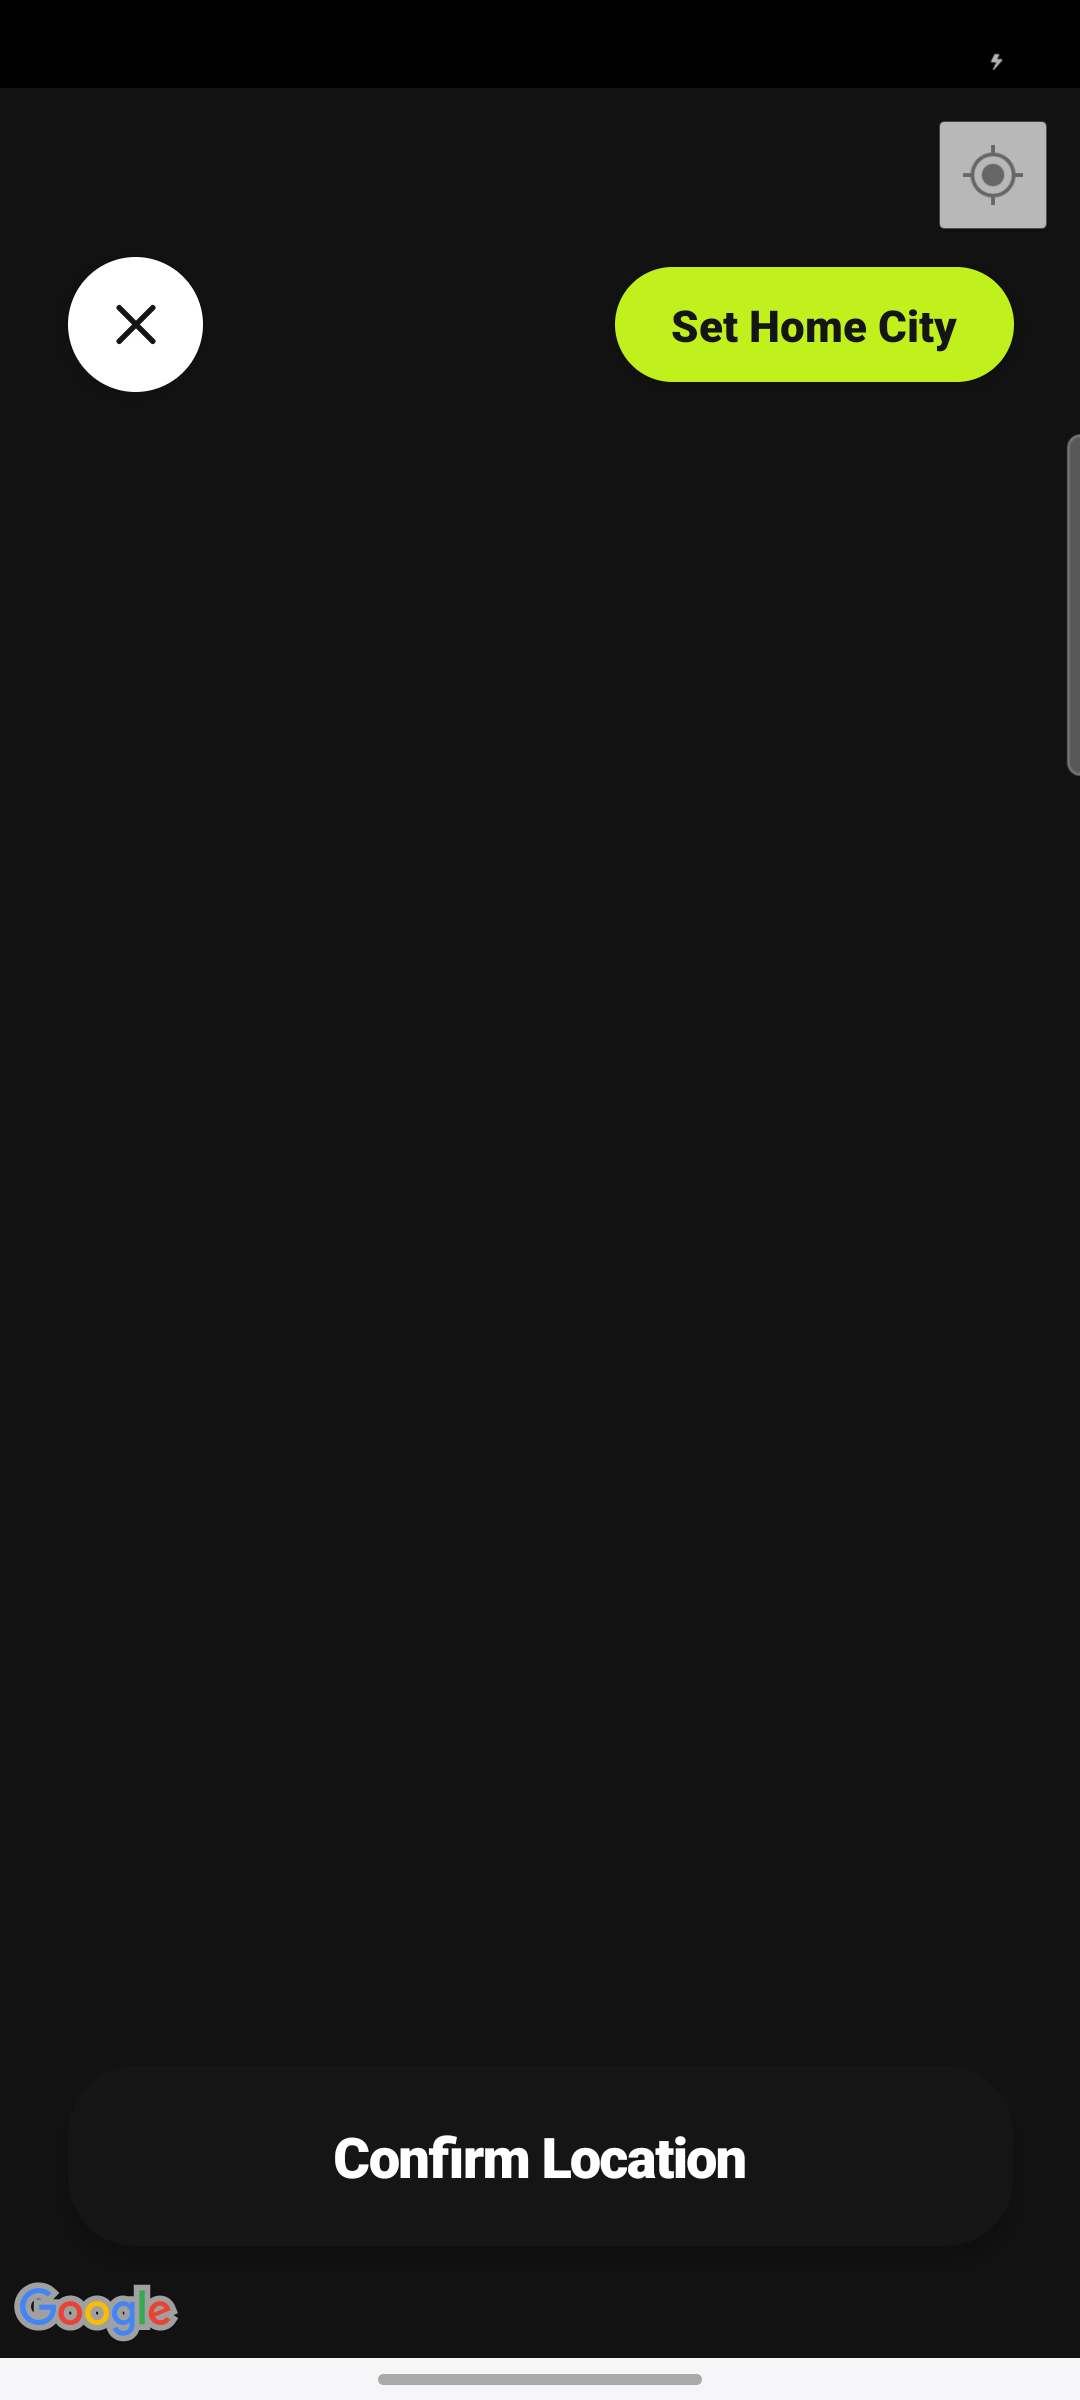
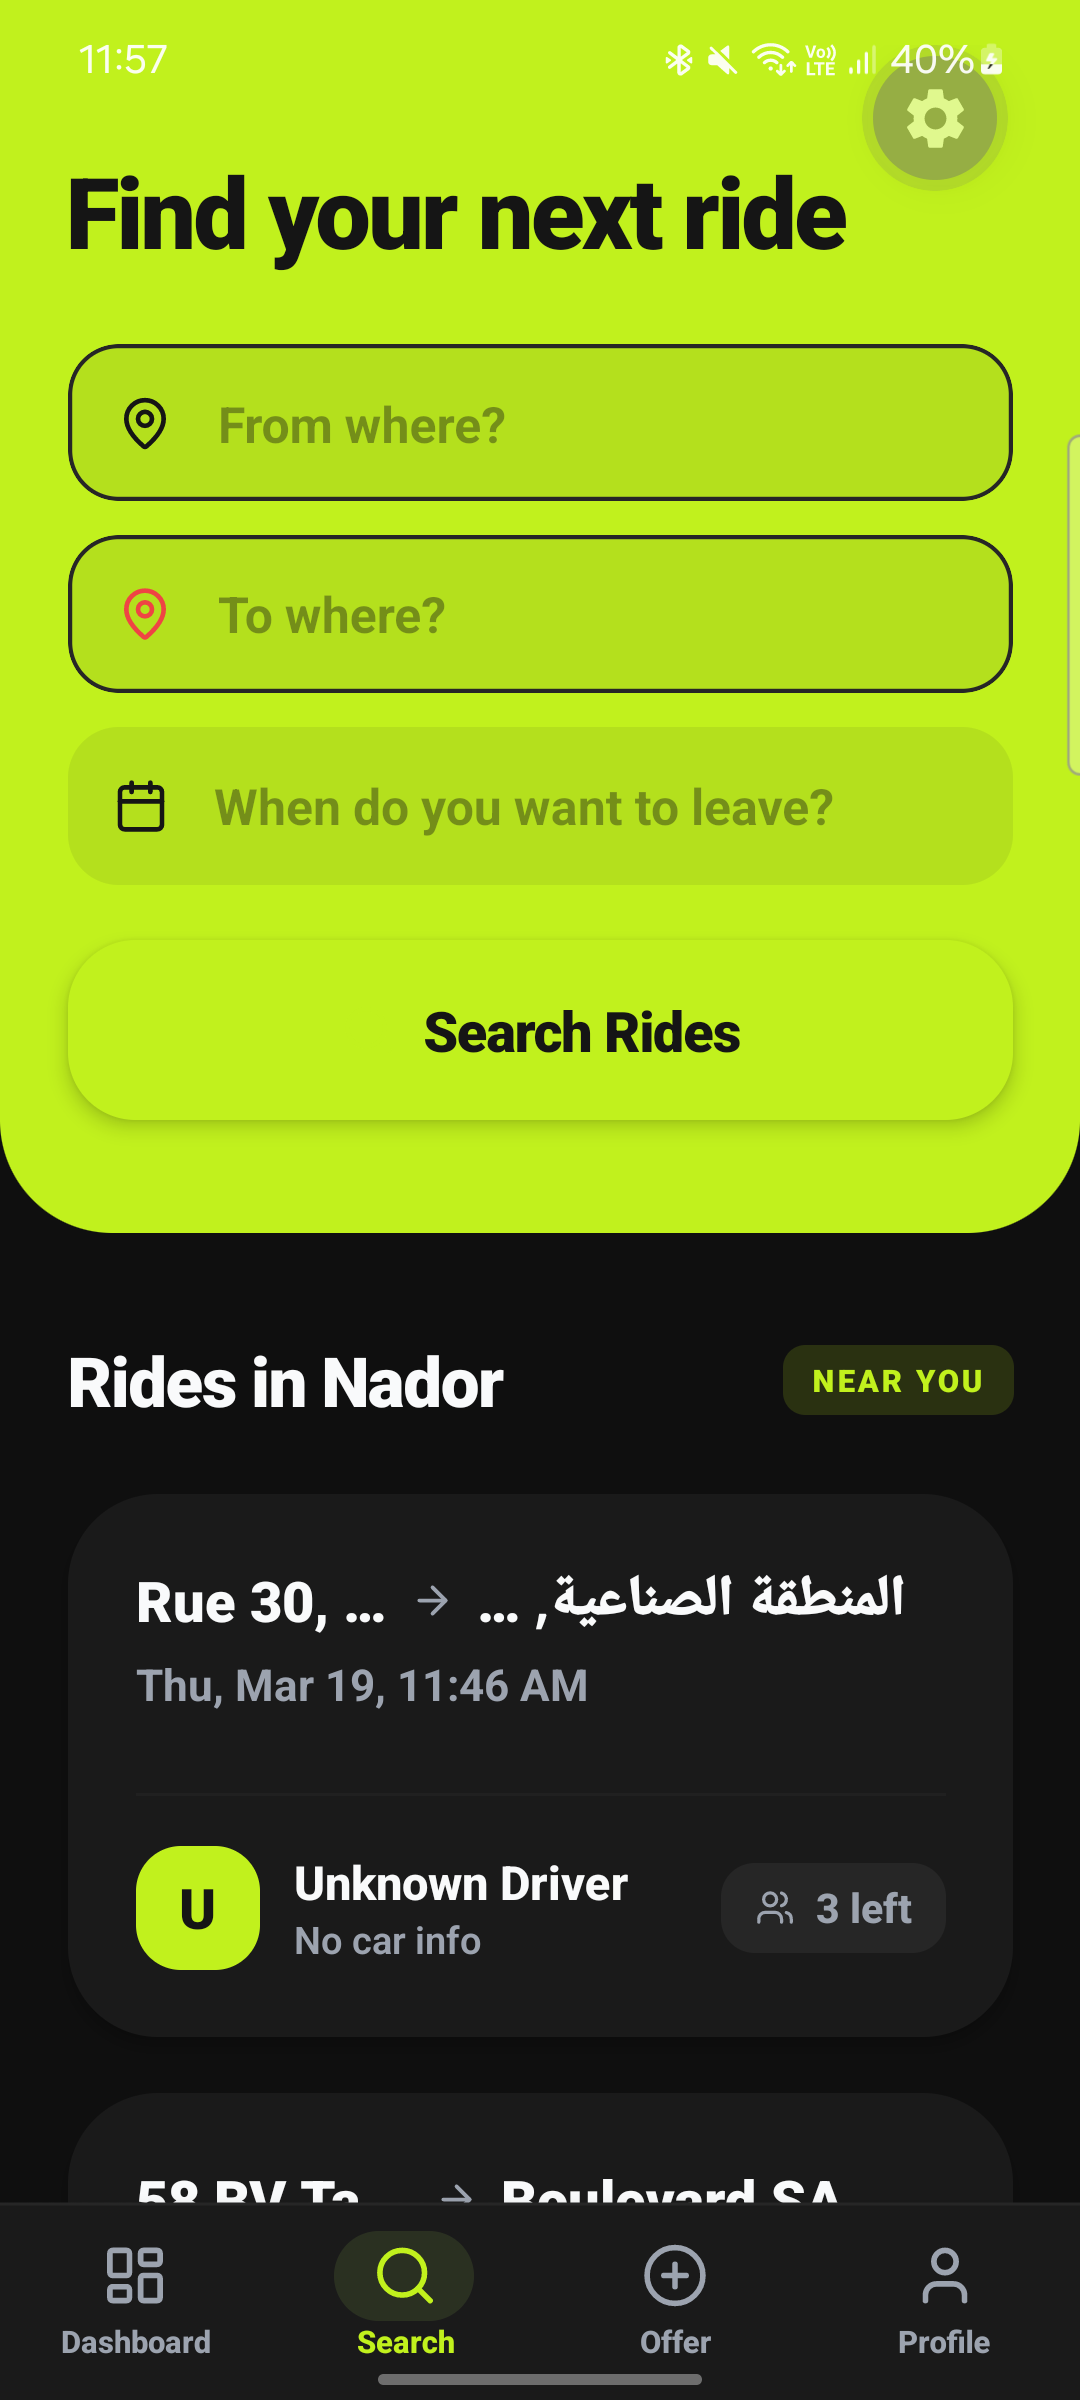
feat: Implement ride cancellation, filter user's own rides from search results, and increase API body size limit.

diff --git a/apps/api/src/rides/rides.service.ts b/apps/api/src/rides/rides.service.ts
@@ -152,6 +152,7 @@ export class RidesService {
     lat?: number;
     lng?: number;
     radius?: number;
+    userId?: string;
   }) {
     if (filters?.lat && filters?.lng && filters?.radius) {
       // Radius search using Haversine formula directly in SQL since PostGIS was not available in migration
@@ -160,24 +161,43 @@ export class RidesService {
       const lng = filters.lng;
 
       // SQL query to find rides within radius
-      // distance = 6371 * acos(cos(radians(lat)) * cos(radians(startLat)) * cos(radians(startLng) - radians(lng)) + sin(radians(lat)) * sin(radians(startLat)))
-      return this.prisma.$queryRaw`
-        SELECT r.*, 
-          u.name as "driverName", u.photo as "driverPhoto", 
-          u."vehicleModel", u."vehicleColor", u."vehiclePlate",
-          (6371 * acos(cos(radians(${lat})) * cos(radians("startLat")) * cos(radians("startLng") - radians(${lng})) + sin(radians(${lat})) * sin(radians("startLat")))) AS "distanceKm"
-        FROM "Ride" r
-        JOIN "User" u ON r."driverId" = u.id
-        WHERE r.status = 'ACTIVE'
-        AND (6371 * acos(cos(radians(${lat})) * cos(radians("startLat")) * cos(radians("startLng") - radians(${lng})) + sin(radians(${lat})) * sin(radians("startLat")))) <= ${radius}
-        ORDER BY "distanceKm" ASC
-        LIMIT 20
-      `;
+      if (filters.userId) {
+        return this.prisma.$queryRaw`
+          SELECT r.*, 
+            u.name as "driverName", u.photo as "driverPhoto", 
+            u."vehicleModel", u."vehicleColor", u."vehiclePlate",
+            (6371 * acos(cos(radians(${lat})) * cos(radians("startLat")) * cos(radians("startLng") - radians(${lng})) + sin(radians(${lat})) * sin(radians("startLat")))) AS "searchDistance"
+          FROM "Ride" r
+          JOIN "User" u ON r."driverId" = u.id
+          WHERE r.status = 'ACTIVE'
+          AND r."driverId" != ${filters.userId}
+          AND (6371 * acos(cos(radians(${lat})) * cos(radians("startLat")) * cos(radians("startLng") - radians(${lng})) + sin(radians(${lat})) * sin(radians("startLat")))) <= ${radius}
+          ORDER BY "searchDistance" ASC
+          LIMIT 20
+        `;
+      } else {
+        return this.prisma.$queryRaw`
+          SELECT r.*, 
+            u.name as "driverName", u.photo as "driverPhoto", 
+            u."vehicleModel", u."vehicleColor", u."vehiclePlate",
+            (6371 * acos(cos(radians(${lat})) * cos(radians("startLat")) * cos(radians("startLng") - radians(${lng})) + sin(radians(${lat})) * sin(radians("startLat")))) AS "searchDistance"
+          FROM "Ride" r
+          JOIN "User" u ON r."driverId" = u.id
+          WHERE r.status = 'ACTIVE'
+          AND (6371 * acos(cos(radians(${lat})) * cos(radians("startLat")) * cos(radians("startLng") - radians(${lng})) + sin(radians(${lat})) * sin(radians("startLat")))) <= ${radius}
+          ORDER BY "searchDistance" ASC
+          LIMIT 20
+        `;
+      }
     }
 
     const where: any = {
       status: "ACTIVE",
     };
+
+    if (filters?.userId) {
+      where.driverId = { not: filters.userId };
+    }
 
     if (filters?.from) {
       where.startLocation = { contains: filters.from, mode: "insensitive" };
@@ -264,10 +284,58 @@ export class RidesService {
       data.departureDatetime = new Date(updateRideDto.departureDatetime);
     }
 
+    const coordsChanged =
+      (updateRideDto.startLat !== undefined &&
+        updateRideDto.startLat !== ride.startLat) ||
+      (updateRideDto.startLng !== undefined &&
+        updateRideDto.startLng !== ride.startLng) ||
+      (updateRideDto.endLat !== undefined &&
+        updateRideDto.endLat !== ride.endLat) ||
+      (updateRideDto.endLng !== undefined &&
+        updateRideDto.endLng !== ride.endLng);
+
+    if (coordsChanged) {
+      const finalStartLat = updateRideDto.startLat ?? ride.startLat;
+      const finalStartLng = updateRideDto.startLng ?? ride.startLng;
+      const finalEndLat = updateRideDto.endLat ?? ride.endLat;
+      const finalEndLng = updateRideDto.endLng ?? ride.endLng;
+
+      if (finalStartLat && finalStartLng && finalEndLat && finalEndLng) {
+        const routeResult = await this.computeRoute(
+          finalStartLat,
+          finalStartLng,
+          finalEndLat,
+          finalEndLng,
+        );
+        if (routeResult) {
+          data.distanceKm = routeResult.distanceKm;
+          data.routePolyline = routeResult.encodedPolyline;
+        }
+      }
+    }
+
     return this.prisma.ride.update({
       where: { id },
       data,
     });
+  }
+
+  async cancelRide(id: string, driverId: string) {
+    const ride = await this.findOne(id);
+    if (ride.driverId !== driverId) {
+      throw new NotFoundException("Not authorized to cancel this ride");
+    }
+
+    return this.prisma.$transaction([
+      this.prisma.booking.updateMany({
+        where: { rideId: id },
+        data: { status: "CANCELLED" },
+      }),
+      this.prisma.ride.update({
+        where: { id },
+        data: { status: "CANCELLED" },
+      }),
+    ]);
   }
 
   async remove(id: string, driverId: string) {

diff --git a/apps/api/src/rides/rides.controller.ts b/apps/api/src/rides/rides.controller.ts
@@ -38,8 +38,10 @@ export class RidesController {
     return this.ridesService.findAllByUser(req.user.id);
   }
 
+  @UseGuards(JwtAuthGuard)
   @Get()
   findAll(
+    @Request() req: AuthenticatedRequest,
     @Query("from") from?: string,
     @Query("to") to?: string,
     @Query("date") date?: string,
@@ -56,6 +58,7 @@ export class RidesController {
       lat: lat ? parseFloat(lat) : undefined,
       lng: lng ? parseFloat(lng) : undefined,
       radius: radius ? parseFloat(radius) : undefined,
+      userId: req.user.id,
     });
   }
 
@@ -77,6 +80,12 @@ export class RidesController {
     @Body() updateRideDto: UpdateRideDto,
   ) {
     return this.ridesService.update(id, req.user.id, updateRideDto);
+  }
+
+  @UseGuards(JwtAuthGuard)
+  @Post(":id/cancel")
+  cancelRide(@Request() req: AuthenticatedRequest, @Param("id") id: string) {
+    return this.ridesService.cancelRide(id, req.user.id);
   }
 
   @UseGuards(JwtAuthGuard)

diff --git a/apps/api/src/main.ts b/apps/api/src/main.ts
@@ -2,9 +2,15 @@ import "dotenv/config";
 import { NestFactory } from "@nestjs/core";
 import { AppModule } from "./app.module";
 import { ValidationPipe } from "@nestjs/common";
+import * as express from "express";
 
 async function bootstrap() {
-  const app = await NestFactory.create(AppModule);
+  const app = await NestFactory.create(AppModule, { bodyParser: false });
+
+  // Raise body size limit to 5MB to support base64-encoded profile photos
+  app.use(express.json({ limit: "5mb" }));
+  app.use(express.urlencoded({ limit: "5mb", extended: true }));
+
   app.useGlobalPipes(
     new ValidationPipe({
       whitelist: true,
@@ -20,4 +26,4 @@ async function bootstrap() {
   console.log(`Application is running on: ${await app.getUrl()}`);
   console.log(`Database URL: ${process.env.DATABASE_URL}`);
 }
-bootstrap();
+void bootstrap();
